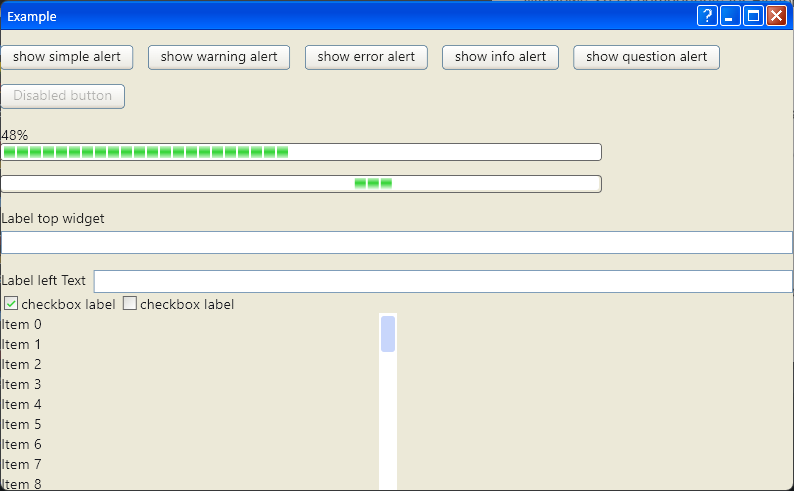
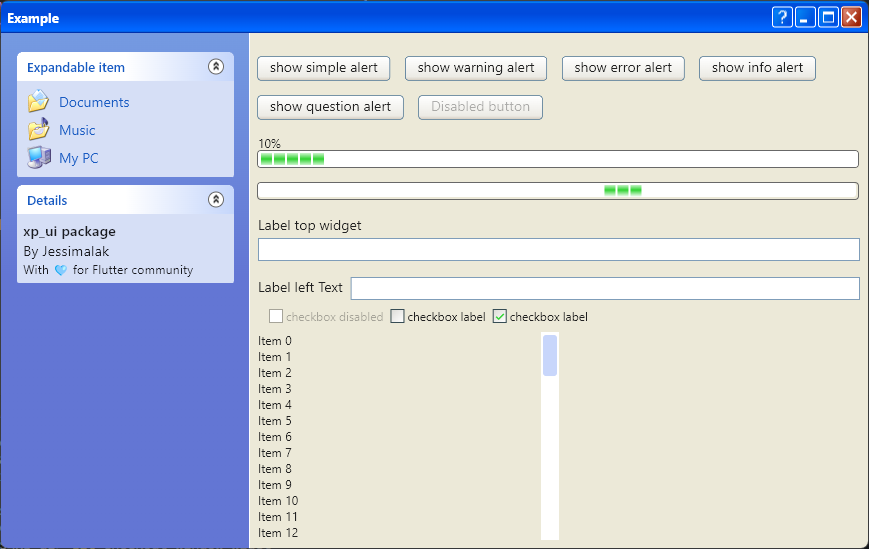
update readme and changelog for version 0.1.0

diff --git a/README.md b/README.md
@@ -31,6 +31,8 @@ Required to load all Xp styles, is compatible with standart flutter material Wid
     home: const MyHomePage(title: 'Flutter Demo Home Page'),
 );
 ```
+#### Window
+`XpWindow` is the basic frame for a Xp-style layout. It supports a `Sidebar` on the left, and optional `TitleBar` at the top.
 
 #### TitleBar
 Provides the window title bar with customizable 4 action button.
@@ -39,8 +41,8 @@ Provides the window title bar with customizable 4 action button.
 
 ![Xp style window title bar](images/titlebar.png)
 ```dart
-Scaffold(
-    appBar: TitleBar(
+XpWindow(
+    titlebar: TitleBar(
         'Example',
         showHelpButton: true,
         showMaximizeButton: true,
@@ -49,6 +51,64 @@ Scaffold(
         onHelpButtonPressed: () {},
       )
 )
+```
+
+#### Sidebar
+Provides quick access to top-level collections of conent in your app.
+
+![Xp style window sidebar](images/sidebar.png)
+```dart
+XpWindow(
+    sidebar: Sidebar(
+          builder: (context, controller) => SingleChildScrollView(
+                controller: controller,
+                child: const Column(
+                  spacing: 8,
+                  children: [
+                    SidebarExpandableItem(
+                      initiallyExpanded: true,
+                      title: Text('Details'),
+                      children: [
+                        Text(
+                          'xp_ui package',
+                          style: TextStyle(fontWeight: FontWeight.w600),
+                        ),
+                        Text(
+                          'By Jessimalak',
+                          style: TextStyle(fontSize: 14),
+                        ),
+                        Text(
+                          'With 🩵 for Flutter community',
+                          style: TextStyle(fontSize: 12),
+                        )
+                      ],
+                    )
+                  ],
+                ),
+              ),
+          minWidth: 200,
+          shownByDefault: true)
+)
+```
+
+#### Sidebar Expandable Item
+Similar to Material's `ExpansionTitle` with the style of original Xp style expandable panels on window sidebar.
+
+```dart
+SidebarExpandableItem(
+    initiallyExpanded: true,
+    title: Text('Expandable item'),
+    children: [
+        ListTile(
+            label: Text('Documents'),
+            icon: SystemIcon(icon: XpSystemIcons.folderDocument)),
+        ListTile(
+            label: Text('Music'),
+            icon: SystemIcon(icon: XpSystemIcons.folderMusic)),
+        ListTile(
+            label: Text('My PC'),
+            icon: SystemIcon(icon: XpSystemIcons.computer))
+        ]),
 ```
 
 #### Button
@@ -69,9 +129,11 @@ you can provide a value between 0-100 to show progress, or null to show an indet
 ![xp style green progress bar](images/progressbar.png)
 
 ```dart
-ProgressBar(
-    value: 82.0
-)
+//with value
+ProgressBar(value: 82.0)
+
+//without value, indeterminated
+ProgressBar()
 ```
 
 #### Checkbox
@@ -148,13 +210,22 @@ AlertType.success;
 ```
 ![two xp style alert dialog](images/alerts/alert_success.png)
 
+
+#### XpIcon
+Show Xp-style icons from `SystemIcons` collection.
+![two xp style computer](assets/system_icons/computer.png) ![two xp style folder](assets/system_icons/folderClose.png) ![two xp style volume icon](assets/system_icons/sound.png) ![two xp style folder](assets/system_icons/printer.png)
+
+```dart
+SystemIcon(icon: XpSystemIcons.folderDocument)
+```
+
 <hr>
 
 ### Contributing
 
 You can contribute in different ways:
 
-- Creating new Windows95 styled components.
+- Creating new WindowsXp styled components.
   - Please include screenshots in your PRs!
   - Please update the example and tests to include the new component!
 - Improving existing components with better options.

diff --git a/CHANGELOG.md b/CHANGELOG.md
@@ -1,3 +1,15 @@
+## 0.1.0
+* New
+    * `XpWindow` widget. It includes `Siderbar` layout.
+    * `SidebarExpandableItem` widget.
+    * `ListTile` widget
+
+* Fixes
+    * `XpTheme` color scheme structure
+    * `Checkbox` disabled style
+    * `Checkbox` outline color
+    * `TitleBar` title style
+
 ## 0.0.1
 
 * initial relase
